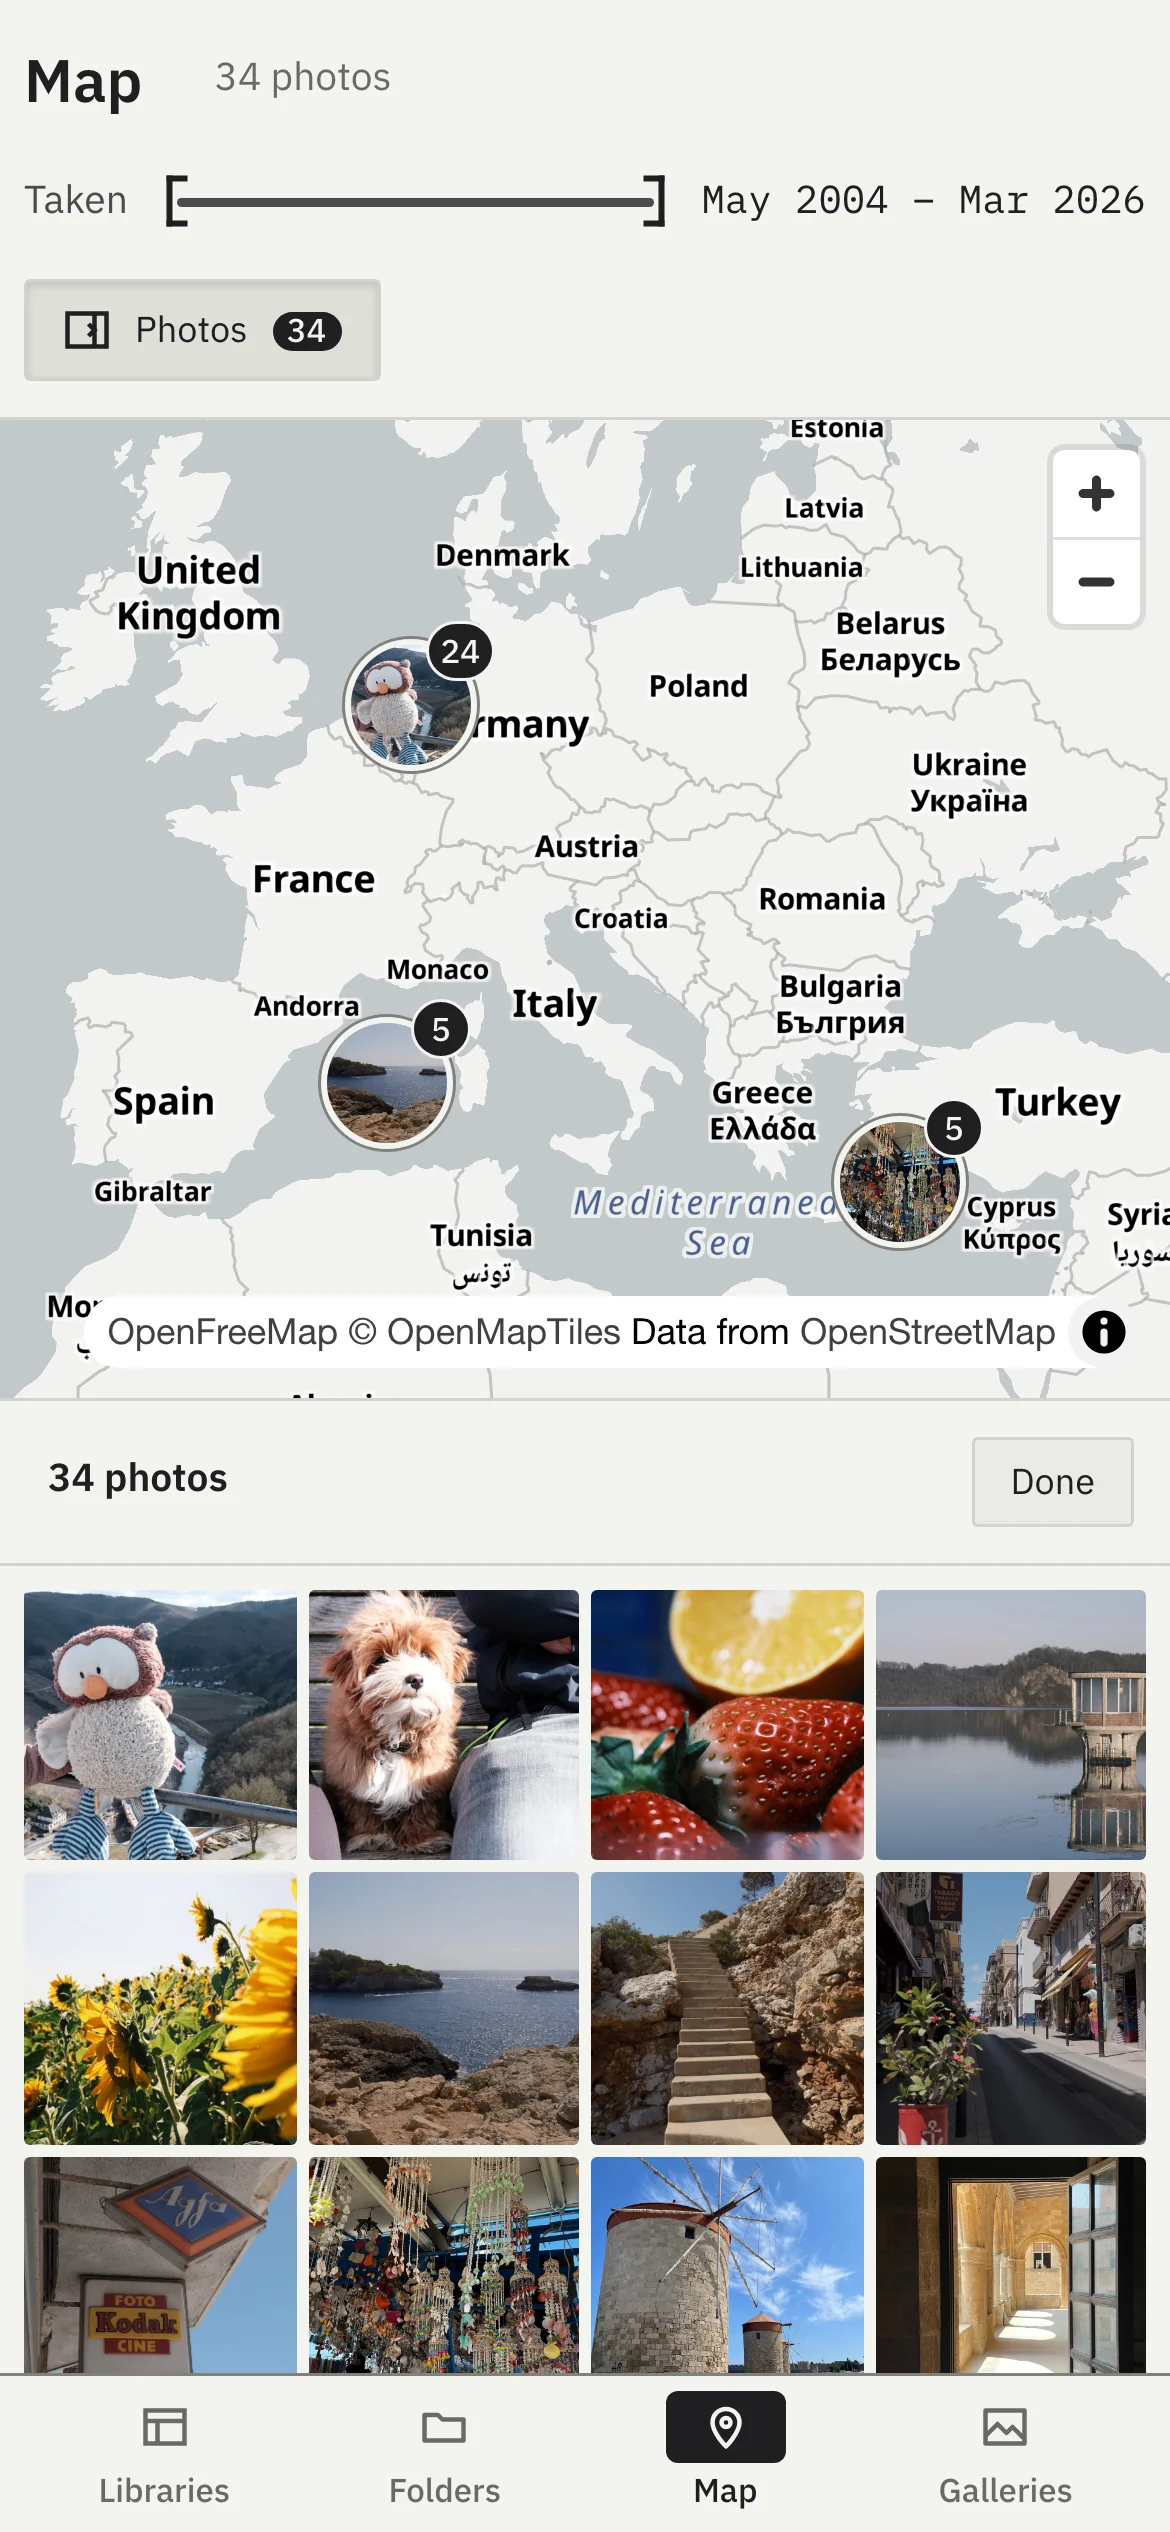
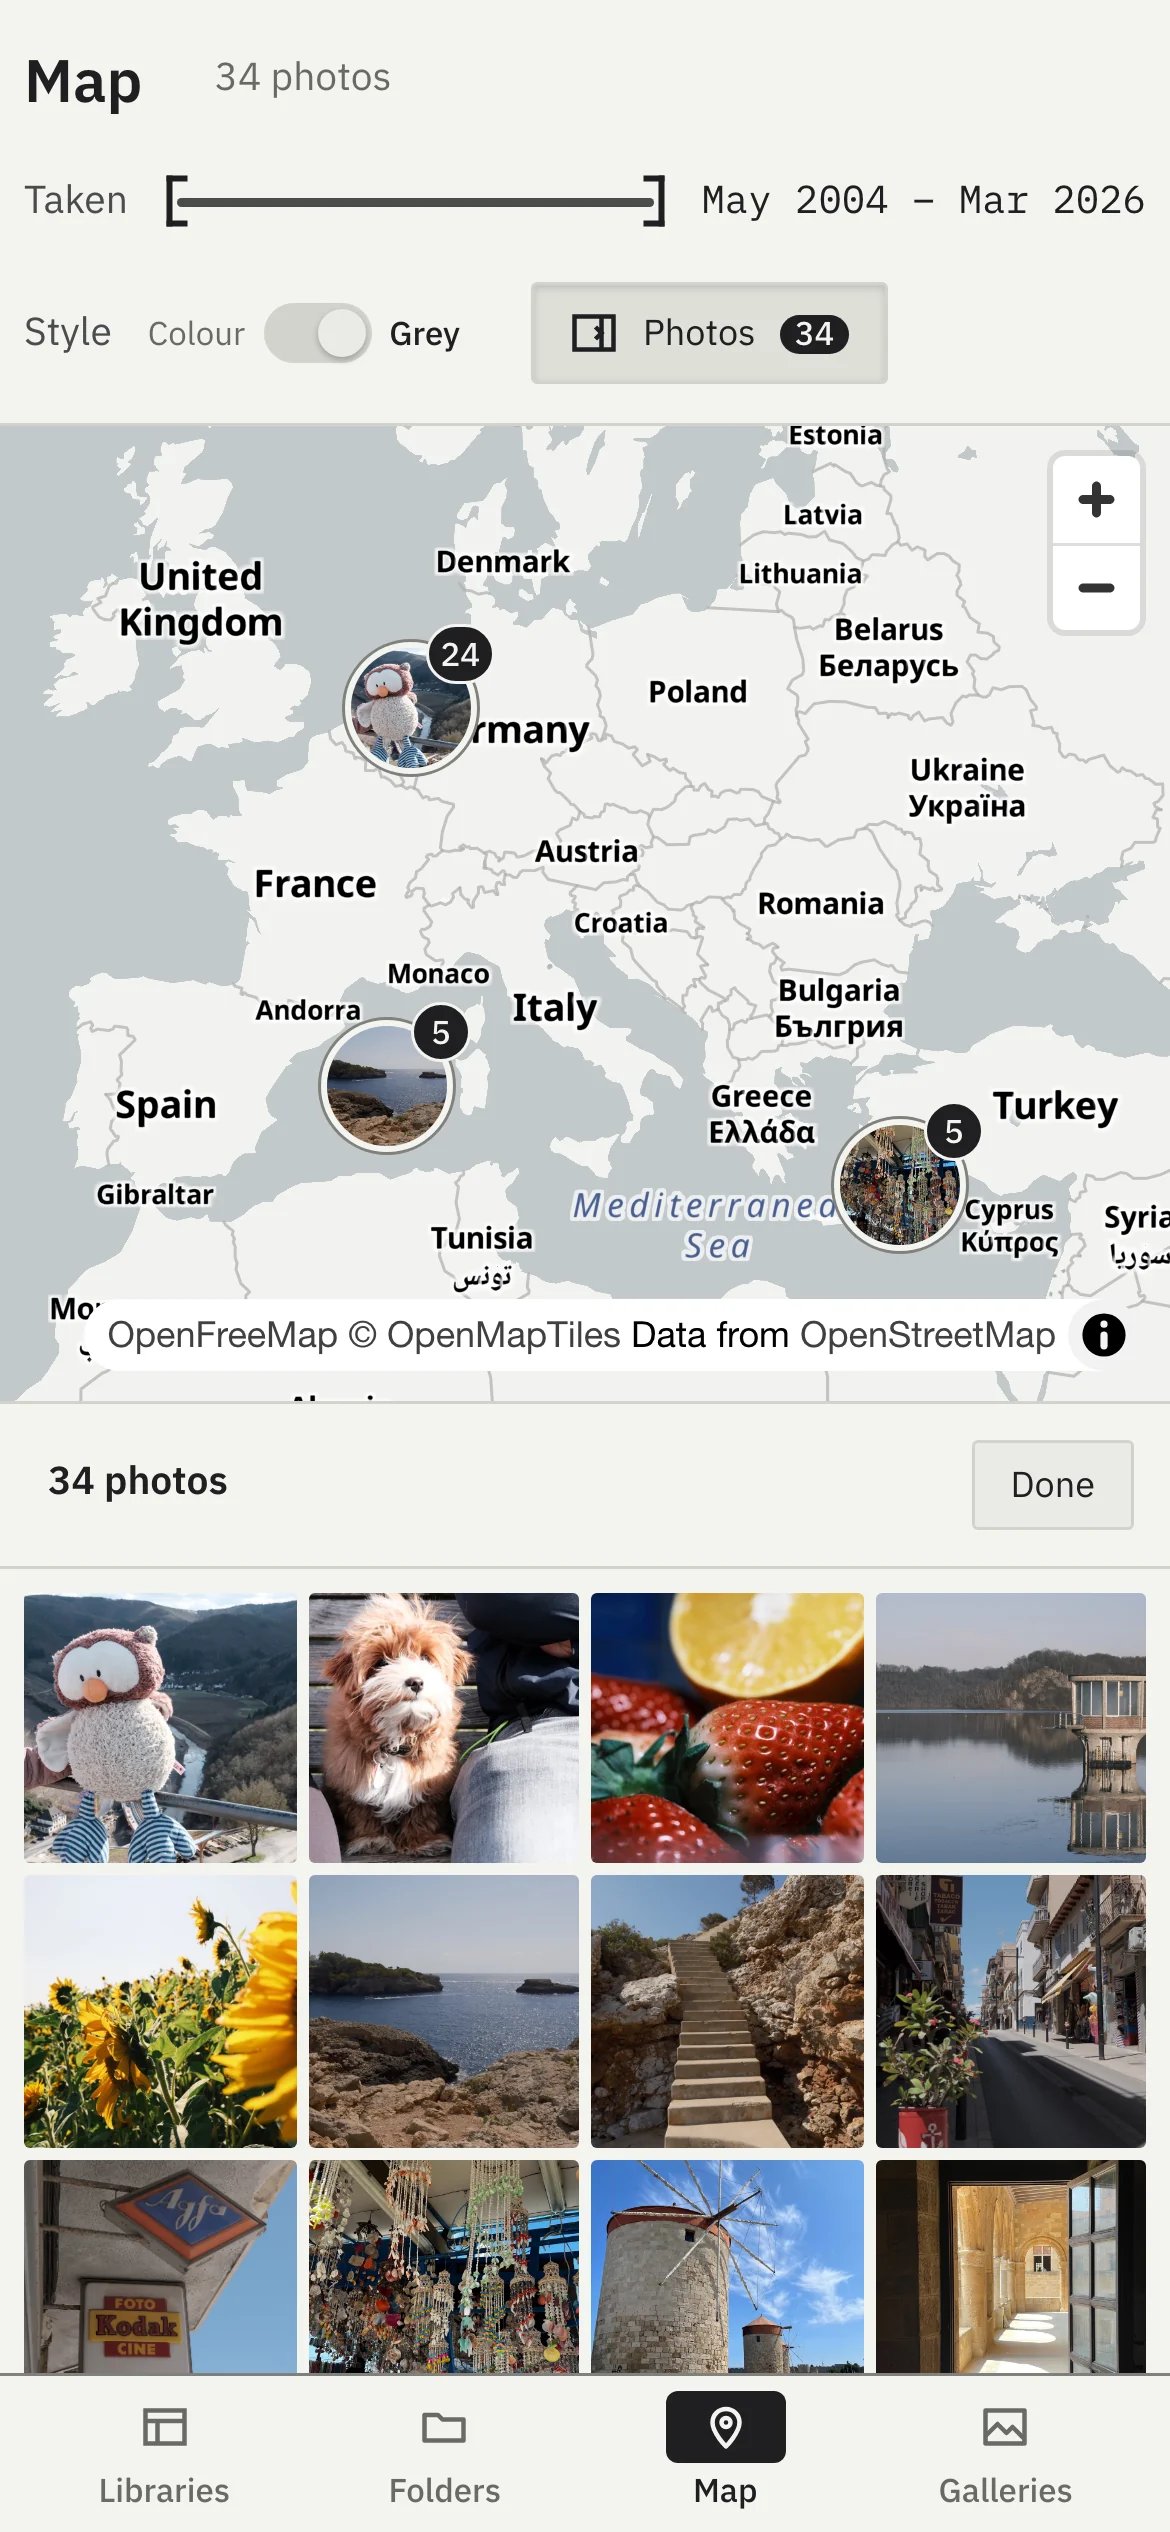
feat(web): the map in colour, on request
A Style switch in the Map's head (Colour / Grey) shows OpenFreeMap's
colour style; grey stays the default and the choice is remembered per
browser.

diff --git a/src/web/js/map-place.js b/src/web/js/map-place.js
@@ -1,14 +1,17 @@
 // map-place.js — the Map place: every located photo of every library on one
 // map, grouped by place, the newest photo of each group on top (ADR-0039).
 
-// Grey tiles, light or dark with the theme: the map is ground for the
-// photos, not a picture of its own.
+// Grey tiles by default, light or dark with the theme: the map is ground
+// for the photos, not a picture of its own. Colour is the info panel's
+// style; OpenFreeMap has no dark version of it.
 const MAP_STYLE_URLS = {
     light: 'https://tiles.openfreemap.org/styles/positron',
     dark: 'https://tiles.openfreemap.org/styles/dark',
+    colour: 'https://tiles.openfreemap.org/styles/liberty',
 };
 
-function mapStyleURL() {
+function mapStyleURL(colour) {
+    if (colour) return MAP_STYLE_URLS.colour;
     return MAP_STYLE_URLS[document.documentElement.dataset.theme === 'dark' ? 'dark' : 'light'];
 }
 
@@ -20,7 +23,8 @@ class MapPane {
         this._points = [];
         this._shown = [];
         this._range = null;
-        this._photosOpen = readPhotosOpen();
+        this._photosOpen = readFlag('map-photos-open');
+        this._colour = readFlag('map-colour');
     }
 
     // Reads the locations again on every visit — a scan may have added some —
@@ -45,6 +49,7 @@ class MapPane {
                     <h1 class="map-title">Map</h1>
                     <span class="map-count"></span>
                     <span class="map-head-spacer"></span>
+                    <span class="map-style" hidden><span class="map-style-label">Style</span></span>
                     <button class="btn btn-sm lib-filter-toggle map-photos-toggle" aria-expanded="false" aria-controls="map-photos" data-state="off" hidden>
                         <svg width="16" height="16" viewBox="0 0 16 16" fill="none" stroke="currentColor" stroke-width="1.5" aria-hidden="true">
                             <rect x="1.5" y="2.5" width="13" height="11"/><path d="M10.5 2.5v11"/>
@@ -63,6 +68,13 @@ class MapPane {
             </div>`;
         this._head = this.container.querySelector('.map-head');
         this._photosBtn = this.container.querySelector('.map-photos-toggle');
+        this._styleEl = this.container.querySelector('.map-style');
+        Toggle.create(this._styleEl, {
+            initial: this._colour,
+            labelOn: 'Colour',
+            labelOff: 'Grey',
+            onChange: (on) => this._setColour(on),
+        });
         this._photosBtn.addEventListener('click', () => this._setPhotosOpen(!this._photosOpen));
         this._photos = new MapPhotos({
             onOpen: (photos, index) => this._openPhotos(photos, index),
@@ -106,6 +118,7 @@ class MapPane {
         this._canvas.hidden = true;
         this._countEl.textContent = '';
         this._photosBtn.hidden = true;
+        this._styleEl.hidden = true;
         this._photos.el.hidden = true;
         return true;
     }
@@ -120,6 +133,7 @@ class MapPane {
         this._canvas.hidden = false;
         this._noteEl.hidden = true;
         this._photosBtn.hidden = false;
+        this._styleEl.hidden = false;
         this._buildTimeRange();
         this._drawPhotosOpen();
         if (!this._map) {
@@ -137,7 +151,7 @@ class MapPane {
         }
         this._map = new maplibregl.Map({
             container: this._canvas,
-            style: mapStyleURL(),
+            style: mapStyleURL(this._colour),
             bounds: pointBounds(this._points),
             fitBoundsOptions: { padding: 72, maxZoom: 12 },
             attributionControl: false,
@@ -154,7 +168,7 @@ class MapPane {
             this._applyRange();
         });
         this._map.on('moveend', () => this._updateInView());
-        new MutationObserver(() => this._map.setStyle(mapStyleURL()))
+        new MutationObserver(() => this._map.setStyle(mapStyleURL(this._colour)))
             .observe(document.documentElement, { attributes: true, attributeFilter: ['data-theme'] });
         // Before the style has loaded, an error means there is no map at
         // all; after it, a missing tile only leaves a blank patch.
@@ -178,7 +192,7 @@ class MapPane {
             first, last,
             onChange: (range) => { this._range = range; this._applyRange(); },
         });
-        this._head.insertBefore(time.el, this._photosBtn);
+        this._head.insertBefore(time.el, this._styleEl);
     }
 
     // Undated photos belong to every period only when none is chosen.
@@ -194,6 +208,12 @@ class MapPane {
         this._updateInView();
     }
 
+    _setColour(on) {
+        this._colour = on;
+        writeFlag('map-colour', on);
+        this._map?.setStyle(mapStyleURL(on));
+    }
+
     /* --- The photos column --- */
 
     // Escape closes the column; returns whether there was one to close.
@@ -205,7 +225,7 @@ class MapPane {
 
     _setPhotosOpen(open) {
         this._photosOpen = open;
-        try { localStorage.setItem('map-photos-open', open ? '1' : '0'); } catch { /* per viewer only */ }
+        writeFlag('map-photos-open', open);
         this._drawPhotosOpen();
         this._updateInView();
     }
@@ -249,8 +269,14 @@ class MapPane {
     }
 }
 
-function readPhotosOpen() {
-    try { return localStorage.getItem('map-photos-open') === '1'; } catch { return false; }
+// The column and the colours are remembered per browser; without storage
+// they start closed and grey.
+function readFlag(key) {
+    try { return localStorage.getItem(key) === '1'; } catch { return false; }
+}
+
+function writeFlag(key, on) {
+    try { localStorage.setItem(key, on ? '1' : '0'); } catch { /* per browser only */ }
 }
 
 // mapPoints flattens the server's answer into one list, oldest first, and

diff --git a/e2e/specs/map.spec.js b/e2e/specs/map.spec.js
@@ -182,6 +182,29 @@ test.describe('Map', () => {
         await page.waitForSelector('.map-marker', { timeout: 20_000 });
         await expect(page.locator('.map-photos')).toBeVisible();
     });
+
+    // Grey by default; the switch brings colour and is remembered.
+    test('switches between grey and colour tiles', async ({ page }) => {
+        const styles = [];
+        page.on('request', (r) => {
+            const m = /\/styles\/([a-z]+)/.exec(r.url());
+            if (m) styles.push(m[1]);
+        });
+        await openMap(page);
+        expect(styles).toEqual(['positron']);
+
+        const toggle = page.locator('.map-style .toggle');
+        await expect(toggle).toHaveAttribute('aria-checked', 'false');
+        await expect(page.locator('.map-style')).toContainText('Style');
+        await toggle.click();
+        await expect.poll(() => styles).toContain('liberty');
+        await expect(page.locator('.map-marker').first()).toBeVisible();
+
+        await page.reload();
+        await page.waitForSelector('.map-marker', { timeout: 20_000 });
+        await expect(page.locator('.map-style .toggle')).toHaveAttribute('aria-checked', 'true');
+        expect(styles.at(-1)).toBe('liberty');
+    });
 });
 
 test.describe('Map on a phone', () => {

diff --git a/src/web/index.html b/src/web/index.html
@@ -13,7 +13,7 @@
     <meta name="theme-color" content="#161718" media="(prefers-color-scheme: dark)">
     <link rel="stylesheet" href="/fonts/fonts.css?v=1">
     <script src="/js/theme-init.js"></script>
-    <link rel="stylesheet" href="/css/style.css?v=43">
+    <link rel="stylesheet" href="/css/style.css?v=44">
     <link href="/js/vendor/maplibre-6.11.2/maplibre-gl.css" rel="stylesheet" />
     <!-- MapLibre 6 ships as an ES module only; the app's classic scripts use it
          as the global maplibregl. Module scripts run before DOMContentLoaded,
@@ -203,7 +203,7 @@
     <script src="/js/map-time-range.js?v=1"></script>
     <script src="/js/map-markers.js?v=1"></script>
     <script src="/js/map-photos.js?v=1"></script>
-    <script src="/js/map-place.js?v=2"></script>
+    <script src="/js/map-place.js?v=3"></script>
     <script src="/js/settings.js?v=3"></script>
     <script src="/js/app-theme.js?v=4"></script>
     <script src="/js/app-wastebin.js?v=5"></script>

diff --git a/src/web/css/style.css b/src/web/css/style.css
@@ -7093,6 +7093,19 @@ body.slideshow-active .shell.sidebar-collapsed { grid-template-columns: minmax(0
     font-variant-numeric: tabular-nums;
 }
 
+/* Colour or grey tiles: a purpose word, then the switch with its two. */
+.map-style {
+    display: flex;
+    align-items: center;
+    gap: var(--space-3);
+    height: var(--control-h);
+    font-size: var(--text-sm);
+}
+
+.map-style[hidden] { display: none; }
+
+.map-style-label { color: var(--fg-2); }
+
 .map-body {
     flex: 1;
     min-height: 0;

diff --git a/doc/architecture/adr/0039-map-place.md b/doc/architecture/adr/0039-map-place.md
@@ -22,7 +22,7 @@ What was there already: MapLibre GL JS, vendored as an ES module ([ADR-0038](003
 - **The photos in view, in a column that is closed by default.** The full-width map is the place; the photos are asked for. A "Photos" button in the head — the same panel toggle as the library filter, with the number of photos in view — opens a column beside the map (below it on a phone) with those photos as square tiles, newest first, rendered in chunks as the column scrolls. It follows the map on every `moveend` and the time range; zooming into a group therefore shows that group. Done or Escape closes it; whether it is open is remembered per browser. A tile opens the viewer on all photos in the column. The owner chose this over a count bubble that opens one group: the bubble is a 20px target, and the view already says which photos one means.
 - **The time filter is client-side.** The slider spans the months from the oldest to the newest dated photo; narrowing it filters the loaded points and replaces the source's data, with no request. Undated photos are shown only while the full span is chosen. Months are read from the ISO date text, so they do not shift with the browser's time zone.
 - **One range slider.** The library filter's two-handle slider was mouse-only. It became `RangeSlider` (`range-slider.js`), used by both: pointer events (mouse, pen, touch), `role="slider"` handles with the arrow, Page and Home/End keys, and the handle being moved in `--accent` — the current value of something adjusted right now. The keys a handle owns stop there, so the place's own shortcuts do not act on them too.
-- **Grey tiles.** The map is ground for the photos: OpenFreeMap's `positron` in the light theme and `dark` in the dark one, switched with the theme. The info panel keeps `liberty`, where the map is the subject.
+- **Grey tiles.** The map is ground for the photos: OpenFreeMap's `positron` in the light theme and `dark` in the dark one, switched with the theme. The info panel keeps `liberty`, where the map is the subject. A Style switch in the head (Colour / Grey, grey by default, remembered per browser) shows `liberty` on the Map as well, asked for by the owner after using it; OpenFreeMap has no dark colour style, so colour stays light in the dark theme.
 - **Navigation.** A new group "Explore" in the sidebar with one entry, Map (`#mode-map`, `#map`). Its number key is 7: the existing number keys stay as they are ([ADR-0028](0028-places-not-workflow-steps.md)), so the keys no longer follow the sidebar's order. It is also a tab on a phone, where the place works as it does on a desk.
 
 ## Consequences

diff --git a/doc/features/done/2026-09-27-map-place.md b/doc/features/done/2026-09-27-map-place.md
@@ -15,6 +15,7 @@ A new place, Map, shows every photo with a location from every library on one la
 - **Photos in view.** A "Photos" button in the head, with the number of photos in the part of the map on screen, opens a column beside the map (the lower half on a phone): those photos as square tiles, newest first. It follows the map as it moves and zooms, so zooming into a group shows that group. Done or Escape closes it; it is closed at first, and the browser remembers whether it was open. A tile opens the viewer on the photos of the column. Asked for by the owner after trying the map: "a filtered grid of the photos in the count bubble", with the full map staying the default.
 - **Time.** A two-handle slider over the months from the oldest to the newest photo narrows the map; the head says "8 of 25 photos". Undated photos are shown only while the whole span is chosen. The slider moves with a pointer, a finger or the keyboard; the handle being moved turns orange. The library filter's sliders are the same component now.
 - **Map.** Grey tiles from OpenFreeMap, `positron` in the light theme and `dark` in the dark one, switched with the theme.
+- **Style.** A switch in the head, "Style: Colour / Grey", shows the map in OpenFreeMap's colour style (`liberty`, light in both themes). Grey is the default; the choice is remembered per browser.
 - **States.** While loading: "Reading the locations…" (after 400 ms). No library: a sentence with a link to Libraries. Libraries without located photos: "None of the N photos in your libraries has a location." Nothing in the chosen period: a sentence on the map. No connection to OpenFreeMap or no MapLibre: a sentence saying so.
 
 ## Acceptance Criteria
@@ -26,6 +27,6 @@ A new place, Map, shows every photo with a location from every library on one la
 - [x] A group at one spot and a single photo open in the viewer, which is read-only there; Escape returns to the map.
 - [x] The photos column is closed at first, shows the photos in view newest first, follows the map, opens a photo in the viewer, closes with Done or Escape, and is remembered.
 - [x] The time slider narrows the photos on the map, and works with pointer and keyboard.
-- [x] The map is grey and follows the theme.
+- [x] The map is grey and follows the theme; the Style switch shows it in colour and is remembered.
 - [x] Empty, loading and failure states are sentences.
 - [x] Go tests for the query and the endpoint; `map.spec.js` covers the place.

diff --git a/CHANGELOG.md b/CHANGELOG.md
@@ -6,7 +6,7 @@ All notable changes to this project are documented in this file.
 ## [Unreleased]
 
 ### Added
-- **A map of your photos.** A new place, Map, under Explore in the sidebar (key 7, `#map`, and a tab on a phone), shows every photo with a location from every library. Photos close together form a group: a round thumbnail of the newest one and how many there are. Zooming in splits the groups; clicking a group zooms in until it does, and a group whose photos share one spot opens in the viewer, as does a single photo. The viewer opens read-only there. A slider narrows the map to the months the photos were taken in. The Photos button opens a column with the photos in the part of the map on screen, newest first; it follows the map as you move and zoom, opens a photo in the viewer, and closes again with Done or Escape. The tiles are grey and follow the light or dark theme.
+- **A map of your photos.** A new place, Map, under Explore in the sidebar (key 7, `#map`, and a tab on a phone), shows every photo with a location from every library. Photos close together form a group: a round thumbnail of the newest one and how many there are. Zooming in splits the groups; clicking a group zooms in until it does, and a group whose photos share one spot opens in the viewer, as does a single photo. The viewer opens read-only there. A slider narrows the map to the months the photos were taken in. The Photos button opens a column with the photos in the part of the map on screen, newest first; it follows the map as you move and zoom, opens a photo in the viewer, and closes again with Done or Escape. The tiles are grey and follow the light or dark theme; a Style switch in the head shows the map in colour, and the choice is remembered.
 
 ### Changed
 - **Range sliders take the keyboard and a finger.** The two-handle sliders of the library filter could only be dragged with a mouse. Each handle is now a slider for screen readers, moves with the arrow, Page and Home/End keys, and follows a finger; the handle being moved turns orange.
